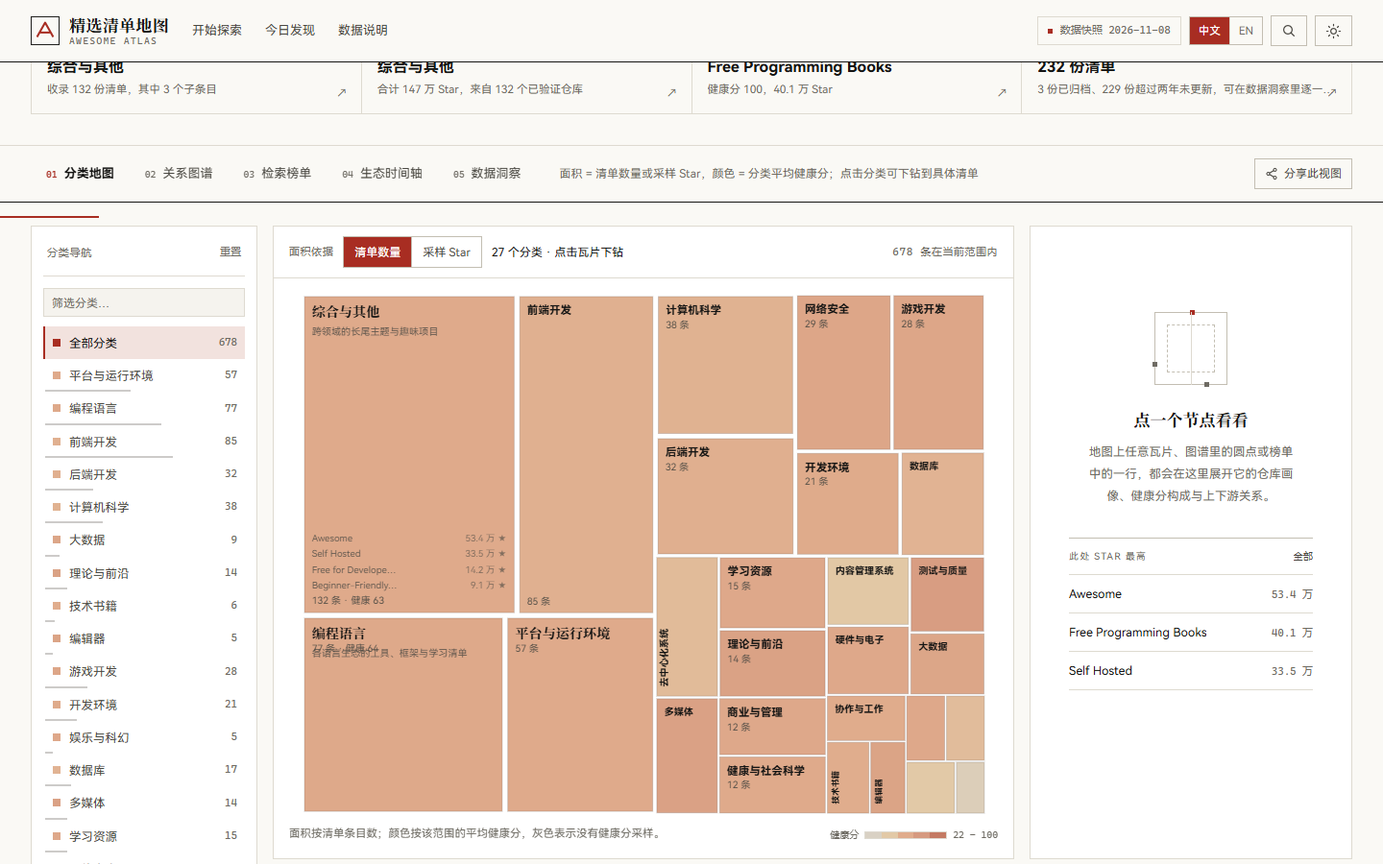
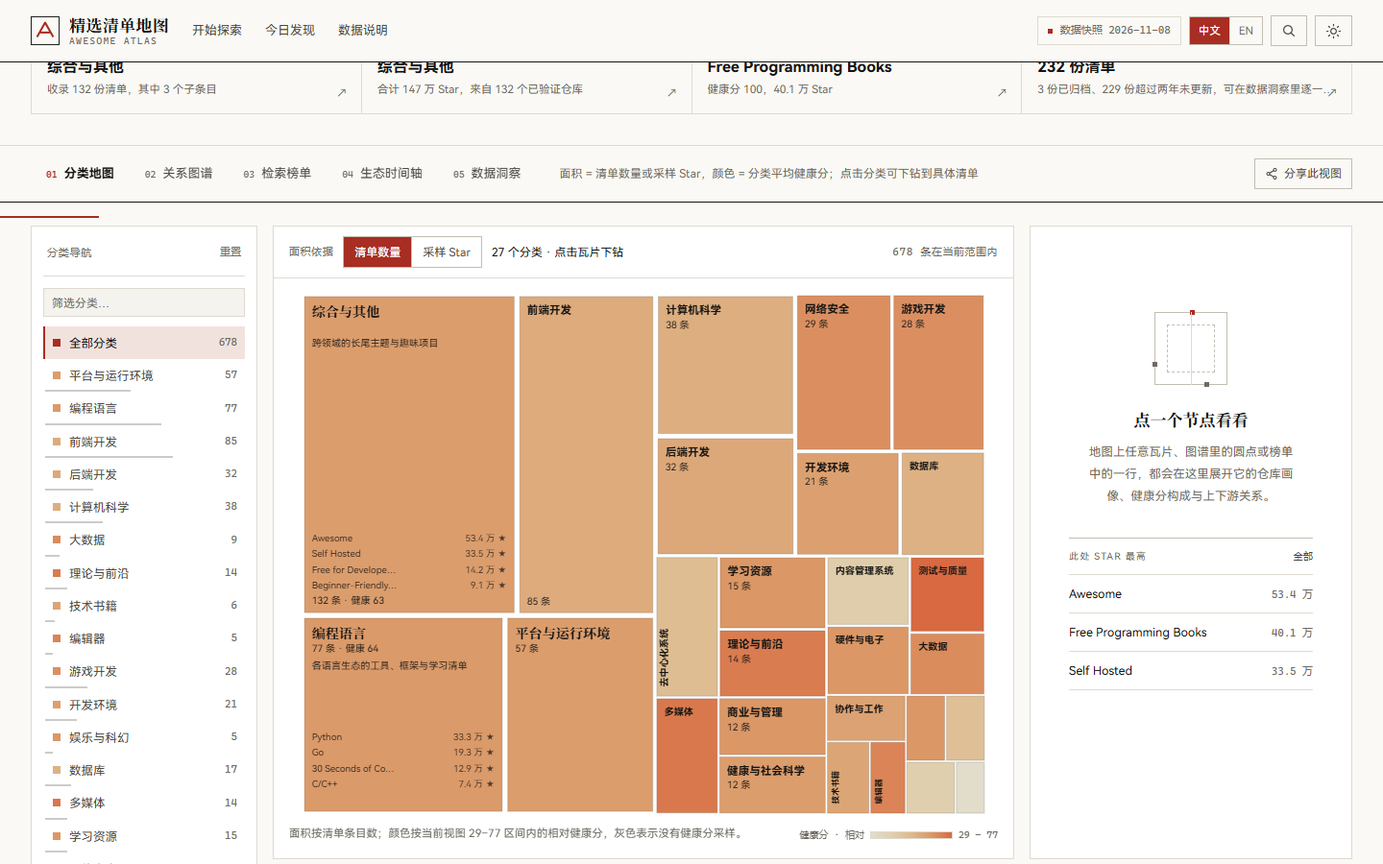
Deploy Awesome Atlas · 48 files · 2026-11-09

Changed region(s): [[0.2188, 0.3422, 0.7188, 0.9956], [0.5938, 0.9644, 0.625, 0.9956]]

diff --git a/assets/app.js b/assets/app.js
@@ -40,15 +40,15 @@
   };
   const safeUrl = (u) => (/^https?:\/\//.test(u || '') ? esc(u) : '#');
   /* Sequential health scale.
-     The domain is the OBSERVED range across verified repos, not 0–100: real
-     category averages sit between ~29 and ~77, so a fixed 0–100 domain collapsed
-     every tile into one muddy shade. The ramp holds lightness inside the band
-     where ink text still clears 4.5:1, and spends its range on hue and saturation
-     instead — stone → sand → apricot → clay → terracotta. Dark mode inverts the
-     luminance direction so a filled tile never glares on a near-black page.
-     Every tile also prints its numeric score, so colour is never the only cue. */
-  const RAMP_LIGHT = [[217, 209, 196], [226, 201, 166], [224, 172, 140], [214, 154, 128], [196, 122, 99]];
-  const RAMP_DARK = [[36, 31, 27], [58, 47, 36], [86, 57, 42], [122, 70, 50], [160, 90, 65]];
+     The ramp holds lightness inside the band where ink text still clears 4.5:1
+     (measured: 5.3 – 13.5 on light, 4.9 – 12.3 on dark) and spends its range on hue
+     and saturation instead — warm paper → sand → apricot → clay → terracotta.
+     The previous ramp stayed inside one material (ΔE 8 across its whole length),
+     so every tile read as the same salmon no matter the value. Dark mode lifts
+     toward the accent rather than the surface, for the same reason.
+     Every tile prints its numeric score, so colour is never the only cue. */
+  const RAMP_LIGHT = [[226, 220, 202], [224, 207, 174], [222, 185, 140], [219, 151, 102], [216, 105, 65]];
+  const RAMP_DARK = [[52, 43, 35], [69, 53, 39], [112, 69, 41], [149, 78, 40], [174, 75, 36]];
   let _domain = null;
   function healthDomain() {
     if (!_domain) {
@@ -57,10 +57,30 @@
     }
     return _domain;
   }
+  /* Colour is scaled to the values a view actually draws. Category averages span
+     29–77 while individual repos span 22–100: one global domain left the two
+     deepest stops unused and flattened 27 tiles into a single wash. Trimming the
+     tails keeps one outlier from re-flattening the rest; every key prints the
+     domain it is drawn with, so the scale never lies about its range. */
+  function rampDomain(values) {
+    const vs = values.filter((v) => v != null).sort((a, b) => a - b);
+    if (!vs.length) return [0, 100];
+    const pick = (p) => vs[Math.max(0, Math.min(vs.length - 1, Math.round((vs.length - 1) * p)))];
+    /* Trimming only pays off on a big population. With 27 categories a 3% cut
+       throws away two real values, and the key would then quote a range that
+       does not contain every tile it paints. */
+    let lo = vs.length >= 40 ? pick(0.03) : vs[0];
+    let hi = vs.length >= 40 ? pick(0.97) : vs[vs.length - 1];
+    /* Amplifying a three-point spread to full ramp would turn noise into signal. */
+    if (hi - lo < 6) { const mid = (lo + hi) / 2; lo = mid - 3; hi = mid + 3; }
+    return [lo, hi];
+  }
+  let _catDomain = null;
+  const categoryDomain = () => (_catDomain || (_catDomain = rampDomain(DATA.categories.map((c) => avgHealth(c.id)))));
   const isDark = () => document.documentElement.dataset.theme === 'dark';
-  function healthRgb(h) {
+  function healthRgb(h, domain) {
     if (h == null) return [138, 134, 126];
-    const [lo, hi] = healthDomain();
+    const [lo, hi] = domain || healthDomain();
     const t = hi > lo ? (Math.max(lo, Math.min(hi, h)) - lo) / (hi - lo) : 0.5;
     const ramp = isDark() ? RAMP_DARK : RAMP_LIGHT;
     const pos = t * (ramp.length - 1);
@@ -68,13 +88,16 @@
     const k = pos - i;
     return ramp[i].map((v, j) => Math.round(v + (ramp[i + 1][j] - v) * k));
   }
-  const healthColor = (h) => `rgb(${healthRgb(h).join(',')})`;
+  const healthColor = (h, domain) => `rgb(${healthRgb(h, domain).join(',')})`;
   /* One source of truth for the legend swatches, so the key cannot drift away
-     from the ramp the map and the graph dots actually use. */
+     from the ramp the map and the graph dots actually use. The anchors are
+     placed at even steps and blended, because the fill interpolates rather than
+     snapping to five buckets -- a banded key would promise classes that do not
+     exist. */
   function rampGradient() {
     const ramp = isDark() ? RAMP_DARK : RAMP_LIGHT;
-    const step = 100 / ramp.length;
-    return 'linear-gradient(90deg,' + ramp.map((c, i) => `rgb(${c.join(',')}) ${(i * step).toFixed(1)}% ${((i + 1) * step).toFixed(1)}%`).join(',') + ')';
+    const step = 100 / (ramp.length - 1);
+    return 'linear-gradient(90deg,' + ramp.map((c, i) => `rgb(${c.join(',')}) ${(i * step).toFixed(1)}%`).join(',') + ')';
   }
   const scoreColor = (h) => h == null ? 'var(--ink-3)' : h >= 70 ? 'var(--accent)' : h >= 45 ? 'var(--ink-2)' : 'var(--ink-3)';
   const tipAttr = (name, lines) => esc(name) + '||' + esc(lines.filter(Boolean).join(' · '));
@@ -119,7 +142,7 @@
       favAdded: '已加入收藏', favRemoved: '已取消收藏', langZh: '已切换为中文', langEn: '已切换为英文原文',
       dataLoaded: '数据快照', legendNote: '健康分只对已验证仓库计算；未命中或已失效的条目始终标注「未采集」，不按 0 分处理。',
       countSuffix: '条', matchedPrefix: '匹配', totalPrefix: '共', inScope: '条在当前范围内',
-      plateKicker: '图 01 · 分类地图', plateFoot: '点按进入地图', mapScale: '健康分',
+      plateKicker: '图 01 · 分类地图', plateFoot: '点按进入地图', mapScale: '健康分 · 相对',
     },
     en: {
       brandName: 'Awesome Atlas', brandSub: 'CURATED INDEX',
@@ -159,7 +182,7 @@
       favAdded: 'Added to favorites', favRemoved: 'Removed from favorites', langZh: 'Switched to Chinese', langEn: 'Switched to English',
       dataLoaded: 'Snapshot', legendNote: 'Health is computed only for verified repositories. Missing entries are labelled, never treated as zero.',
       countSuffix: '', matchedPrefix: 'matched', totalPrefix: 'total', inScope: 'in current scope',
-      plateKicker: 'Plate 01 · Map', plateFoot: 'Open the map', mapScale: 'health',
+      plateKicker: 'Plate 01 · Map', plateFoot: 'Open the map', mapScale: 'health · relative',
     },
   };
   const LANG_KEY = 'atlas-lang';
@@ -385,11 +408,12 @@
         ? `${DATA.categories.length} categories · ${DATA.stats.items} lists`
         : `${DATA.categories.length} 类 · ${DATA.stats.items} 条`;
     }
-    /* Print the real observed domain: a 0–100 legend would misrepresent a scale
-       that is stretched over the actual data range. */
-    const [hLo, hHi] = healthDomain();
-    if ($('#legendLow')) $('#legendLow').textContent = `${hLo} · ${isEn() ? 'stale' : '停滞'}`;
-    if ($('#legendHigh')) $('#legendHigh').textContent = `${hHi} · ${isEn() ? 'active' : '活跃'}`;
+    /* The sidebar key is a category scale: it sits next to the 27 category
+       swatches, so it must show the range those swatches are drawn over. The
+       map carries its own key for the population it is currently drawing. */
+    const [cLo, cHi] = categoryDomain();
+    if ($('#legendLow')) $('#legendLow').textContent = `${Math.round(cLo)} · ${isEn() ? 'weaker' : '偏弱'}`;
+    if ($('#legendHigh')) $('#legendHigh').textContent = `${Math.round(cHi)} · ${isEn() ? 'stronger' : '偏强'}`;
     document.title = isEn() ? 'Awesome Atlas · A Visual Index of Curated Lists' : '精选清单地图 · Awesome 中文可视化索引';
   }
 
@@ -462,7 +486,7 @@
     const allRow = `<button class="cat-row ${state.cat === 'all' ? 'is-on' : ''}" type="button" data-cat="all"><span class="cat-swatch" style="background:var(--accent)"></span><span class="cat-name">${esc(ui('allCategories'))}</span><span class="cat-count">${DATA.stats.items}</span></button>`;
     $('#categoryList').innerHTML = allRow + rows.map((c) => {
       const h = avgHealth(c.id);
-      return `<button class="cat-row ${state.cat === c.id ? 'is-on' : ''}" type="button" data-cat="${esc(c.id)}" data-tip="${tipAttr(catName(c), [catNote(c), c.itemCount + ' ' + ui('countSuffix'), h == null ? ui('noSample') : (isEn() ? 'avg health ' : '平均健康分 ') + h])}"><span class="cat-swatch" style="background:${healthColor(h)}"></span><span class="cat-name">${catLabel(c)}</span><span class="cat-count">${c.itemCount}</span><span class="cat-bar" style="width:${Math.round((c.itemCount / max) * 100)}%"></span></button>`;
+      return `<button class="cat-row ${state.cat === c.id ? 'is-on' : ''}" type="button" data-cat="${esc(c.id)}" data-tip="${tipAttr(catName(c), [catNote(c), c.itemCount + ' ' + ui('countSuffix'), h == null ? ui('noSample') : (isEn() ? 'avg health ' : '平均健康分 ') + h])}"><span class="cat-swatch" style="background:${healthColor(h, categoryDomain())}"></span><span class="cat-name">${catLabel(c)}</span><span class="cat-count">${c.itemCount}</span><span class="cat-bar" style="width:${Math.round((c.itemCount / max) * 100)}%"></span></button>`;
     }).join('');
     $('#enrichedOnly').checked = state.enrichedOnly;
     $('#favoritesOnly').checked = state.favoritesOnly;
@@ -579,7 +603,6 @@
            block carries data instead of emptiness. */
         top: enrichedOf(c.id).slice().sort((a, b) => b.metrics.stars - a.metrics.stars).slice(0, 4).map((it) => ({ name: it.name, stars: it.metrics.stars })),
         value: state.metric === 'stars' ? Math.log10(totalStarsOf(c.id) + 10) : c.itemCount,
-        color: healthColor(avgHealth(c.id)),
         health: avgHealth(c.id),
         /* Any active filter has to be visible on the canvas. This used to be
            gated on `state.q`, so choosing a category in the sidebar or turning on
@@ -596,7 +619,6 @@
         subShort: it.metrics ? fmtAbbr(it.metrics.stars, isEn()) + ' ★' : ui('noSample'),
         note: '',
         value: state.metric === 'stars' ? Math.log10((it.metrics ? it.metrics.stars : 0) + 10) : 1,
-        color: healthColor(it.metrics ? it.metrics.health : null),
         health: it.metrics ? it.metrics.health : null,
         dim: !matched.has(it.id),
         tip: tipAttr(it.name, [catName(catById.get(cid)), it.level ? ui('subEntry') : ui('mainEntry'), it.metrics ? '★ ' + fmtAbbr(it.metrics.stars, isEn()) + ' · ' + (isEn() ? 'health ' : '健康 ') + it.metrics.health : ui('noSample')]),
@@ -604,6 +626,9 @@
       }));
     }
     entries.sort((a, b) => b.value - a.value);
+    /* One domain per render, taken from the tiles on screen. */
+    const dom = rampDomain(entries.map((e) => e.health));
+    entries.forEach((e) => { e.color = healthColor(e.health, dom); });
     const tiles = treemap(entries, 0, 0, W, H);
     const dimmed = tiles.filter((t) => t.dim).length;
     const rects = tiles.map((t) => {
@@ -640,15 +665,20 @@
       const noteLines = !vertical && t.note && w > 200 && h > 150
         ? wrapCJK(t.note, Math.max(6, Math.floor((w - 20) / 11)), 2)
         : [];
-      const noteEl = noteLines.map((line, i) => `<text class="tile-note" x="${(x + 8).toFixed(1)}" y="${(nameY + 20 + i * 15).toFixed(1)}" font-size="10.5" fill-opacity=".82">${esc(line)}</text>`).join('');
-      /* Only the biggest category tiles get the inset; on anything smaller the
-         four rows would collide with the name. Anchored to the bottom edge so the
-         block frames the tile instead of floating in its middle. */
-      const insetRows = !vertical && t.top && w > 220 && h > 240 ? t.top : [];
+      /* The count line owns the slot directly under the name, so the note block
+         starts below that slot. Starting it at nameY+20 printed the description
+         on top of 「77 条 · 健康 64」. */
+      const noteEl = noteLines.map((line, i) => `<text class="tile-note" x="${(x + 8).toFixed(1)}" y="${(nameY + 33 + i * 15).toFixed(1)}" font-size="10.5" fill-opacity=".85">${esc(line)}</text>`).join('');
+      /* Only tiles with room get the inset; below this the four rows would
+         collide with the note. Anchored to the bottom edge so the block frames
+         the tile instead of floating in its middle. 220×240 was so strict that
+         the second-largest tile sat half empty while the biggest one carried a
+         list. */
+      const insetRows = !vertical && t.top && w > 176 && h > 158 ? t.top : [];
       const insetEl = insetRows.map((it, i) => {
         const rowY = y + h - 26 - (insetRows.length - 1 - i) * 17;
         return `<text class="tile-sub" x="${(x + 8).toFixed(1)}" y="${rowY.toFixed(1)}" font-size="10" fill-opacity=".8">${esc(clipLabel(it.name, w * 0.58, 10))}</text>` +
-          `<text class="tile-sub" x="${(x + w - 8).toFixed(1)}" y="${rowY.toFixed(1)}" font-size="10" text-anchor="end" fill-opacity=".62">${esc(fmtAbbr(it.stars, isEn()))} ★</text>`;
+          `<text class="tile-sub" x="${(x + w - 8).toFixed(1)}" y="${rowY.toFixed(1)}" font-size="10" text-anchor="end" fill-opacity=".72">${esc(fmtAbbr(it.stars, isEn()))} ★</text>`;
       }).join('');
       return `<g class="tile ${t.dim ? 'is-dim' : ''} ${selected ? 'is-selected' : ''}" data-action="${t.action}" data-id="${esc(t.id)}" data-tip="${t.tip}" tabindex="0" role="button" aria-label="${esc(t.label)}">
         <rect class="tile-bg" x="${x1}" y="${y1}" width="${w1}" height="${h1}" fill="${t.color}" stroke="var(--ink)" stroke-opacity=".16" stroke-width="1"/>
@@ -661,14 +691,16 @@
     main.innerHTML = `<svg class="treemap-svg" viewBox="0 0 ${W} ${H}" role="img" aria-label="${isEn() ? 'Treemap of categories and lists' : '分类与清单的树状地图'}">${rects}</svg>`;
     $('#canvasFoot').innerHTML = `<p class="canvas-note">${state.metric === 'stars'
       ? (isEn() ? 'Area uses a log scale of sampled stars so a few mega-repos do not swallow the map.' : '面积按采样 Star 的对数缩放，避免个别超级项目吞掉整张图。')
-      : (isEn() ? 'Area = number of lists; colour = average health; grey = no sampled metrics.' : '面积按清单条目数；颜色按该范围的平均健康分，灰色表示没有健康分采样。')}${dimmed
+      : (isEn() ? `Area = number of lists; colour = health relative to the ${dom[0]}–${dom[1]} on screen; grey = no sampled metrics.` : `面积按清单条目数；颜色按当前视图 ${dom[0]}–${dom[1]} 区间内的相对健康分，灰色表示没有健康分采样。`)}${dimmed
       ? (isEn() ? ` ${dimmed} tiles outside the current filter are dimmed.` : ` 当前筛选外的 ${dimmed} 个瓦片已淡化。`)
-      : ''}</p>${scaleHtml()}`;
+      : ''}</p>${scaleHtml(dom)}`;
   }
-  /* The same key serves the map and the graph, both of which colour by health. */
-  function scaleHtml() {
-    const [lo, hi] = healthDomain();
-    return `<div class="map-scale"><span>${ui('mapScale')}</span><span class="map-scale-track" style="background:${rampGradient()}"></span><span class="map-scale-cap">${lo} – ${hi}</span></div>`;
+  /* The same key serves the map and the graph, both of which colour by health.
+     The domain is passed in rather than assumed, so the caption always matches
+     the values that were actually painted. */
+  function scaleHtml(domain) {
+    const [lo, hi] = domain || healthDomain();
+    return `<div class="map-scale"><span>${ui('mapScale')}</span><span class="map-scale-track" style="background:${rampGradient()}"></span><span class="map-scale-cap">${Math.round(lo)} – ${Math.round(hi)}</span></div>`;
   }
 
   /* ---------- hero plate ---------- */
@@ -684,6 +716,7 @@
       .map((c) => ({ key: c.id, label: catName(c), value: c.itemCount, health: avgHealth(c.id), count: c.itemCount }))
       .sort((a, b) => b.value - a.value);
     const focus = state.cat !== 'all' ? state.cat : null;
+    const plateDomain = categoryDomain();
     const cells = treemap(entries, 0, 0, W, H).map((t) => {
       const gap = 2;
       const x = t.x + gap, y = t.y + gap, w = Math.max(0, t.w - gap * 2), h = Math.max(0, t.h - gap * 2);
@@ -691,7 +724,7 @@
       const fs = w > 126 ? 11 : w > 78 ? 9.5 : 8;
       const showName = w > 60 && h > 26;
       return `<g class="plate-tile ${focus === t.key ? 'is-focus' : ''}"><title>${esc(t.label)} · ${t.count} ${isEn() ? 'lists' : '条'}</title>
-        <rect x="${x.toFixed(1)}" y="${y.toFixed(1)}" width="${w.toFixed(1)}" height="${h.toFixed(1)}" fill="${healthColor(t.health)}" stroke="var(--surface)" stroke-width="1.2"/>
+        <rect x="${x.toFixed(1)}" y="${y.toFixed(1)}" width="${w.toFixed(1)}" height="${h.toFixed(1)}" fill="${healthColor(t.health, plateDomain)}" stroke="var(--surface)" stroke-width="1.2"/>
         ${showName ? `<text x="${(x + 5).toFixed(1)}" y="${(y + fs + 5).toFixed(1)}" font-size="${fs}">${esc(clipLabel(t.label, w, fs))}</text>` : ''}
       </g>`;
     }).join('');

diff --git a/docs/banner.html b/docs/banner.html
@@ -41,8 +41,8 @@
   </div>
   <div class="plate">
     <div class="plate-head"><b>图 01 · 分类地图</b><span>27 类 · 678 条</span></div>
-    <svg viewBox="0 0 470 470" width="100%" role="img" aria-label="分类树状地图"><rect x="2.4" y="2.4" width="238.5" height="172.0" fill="rgb(223,170,139)" stroke="#faf9f5" stroke-width="1.2"/><text x="8.4" y="21.4" font-size="13" font-family="PingFang SC, Microsoft YaHei, sans-serif" font-weight="600" fill="#141413">综合与其他</text><rect x="2.4" y="179.2" width="238.5" height="109.0" fill="rgb(224,176,144)" stroke="#faf9f5" stroke-width="1.2"/><text x="8.4" y="198.2" font-size="13" font-family="PingFang SC, Microsoft YaHei, sans-serif" font-weight="600" fill="#141413">前端开发</text><rect x="2.4" y="293.0" width="135.0" height="174.6" fill="rgb(222,169,138)" stroke="#faf9f5" stroke-width="1.2"/><text x="8.4" y="310.5" font-size="11.5" font-family="PingFang SC, Microsoft YaHei, sans-serif" font-weight="600" fill="#141413">编程语言</text><rect x="142.2" y="293.0" width="98.7" height="174.6" fill="rgb(223,170,139)" stroke="#faf9f5" stroke-width="1.2"/><text x="148.2" y="310.5" font-size="11.5" font-family="PingFang SC, Microsoft YaHei, sans-serif" font-weight="600" fill="#141413">平台与运行环境</text><rect x="245.7" y="2.4" width="118.3" height="95.8" fill="rgb(224,178,145)" stroke="#faf9f5" stroke-width="1.2"/><text x="251.7" y="19.9" font-size="11.5" font-family="PingFang SC, Microsoft YaHei, sans-serif" font-weight="600" fill="#141413">计算机科学</text><rect x="368.8" y="2.4" width="98.8" height="95.8" fill="rgb(224,175,143)" stroke="#faf9f5" stroke-width="1.2"/><text x="374.8" y="19.9" font-size="11.5" font-family="PingFang SC, Microsoft YaHei, sans-serif" font-weight="600" fill="#141413">后端开发</text><rect x="245.7" y="103.0" width="131.2" height="64.7" fill="rgb(221,166,136)" stroke="#faf9f5" stroke-width="1.2"/><text x="251.7" y="120.5" font-size="11.5" font-family="PingFang SC, Microsoft YaHei, sans-serif" font-weight="600" fill="#141413">网络安全</text><rect x="245.7" y="172.5" width="131.2" height="62.3" fill="rgb(221,166,136)" stroke="#faf9f5" stroke-width="1.2"/><text x="251.7" y="190.0" font-size="11.5" font-family="PingFang SC, Microsoft YaHei, sans-serif" font-weight="600" fill="#141413">游戏开发</text><rect x="381.7" y="103.0" width="85.9" height="70.7" fill="rgb(223,171,139)" stroke="#faf9f5" stroke-width="1.2"/><text x="387.7" y="119.0" font-size="10" font-family="PingFang SC, Microsoft YaHei, sans-serif" font-weight="600" fill="#141413">开发环境</text><rect x="381.7" y="178.5" width="85.9" height="56.3" fill="rgb(225,179,147)" stroke="#faf9f5" stroke-width="1.2"/><text x="387.7" y="194.5" font-size="10" font-family="PingFang SC, Microsoft YaHei, sans-serif" font-weight="600" fill="#141413">数据库</text><rect x="245.7" y="239.6" width="41.1" height="115.9" fill="rgb(225,187,153)" stroke="#faf9f5" stroke-width="1.2"/><rect x="291.6" y="239.6" width="73.5" height="57.6" fill="rgb(222,168,138)" stroke="#faf9f5" stroke-width="1.2"/><text x="297.6" y="255.6" font-size="10" font-family="PingFang SC, Microsoft YaHei, sans-serif" font-weight="600" fill="#141413">学习资源</text><rect x="291.6" y="302.0" width="73.5" height="53.5" fill="rgb(218,162,133)" stroke="#faf9f5" stroke-width="1.2"/><text x="297.6" y="318.0" font-size="10" font-family="PingFang SC, Microsoft YaHei, sans-serif" font-weight="600" fill="#141413">理论与前沿</text><rect x="369.9" y="239.6" width="97.7" height="39.7" fill="rgb(218,161,133)" stroke="#faf9f5" stroke-width="1.2"/><text x="375.9" y="257.1" font-size="11.5" font-family="PingFang SC, Microsoft YaHei, sans-serif" font-weight="600" fill="#141413">多媒体</text><rect x="369.9" y="284.0" width="46.5" height="71.5" fill="rgb(222,168,138)" stroke="#faf9f5" stroke-width="1.2"/><rect x="421.1" y="284.0" width="46.5" height="71.5" fill="rgb(223,170,139)" stroke="#faf9f5" stroke-width="1.2"/><rect x="245.7" y="360.3" width="59.1" height="51.3" fill="rgb(226,200,165)" stroke="#faf9f5" stroke-width="1.2"/><rect x="245.7" y="416.3" width="59.1" height="51.3" fill="rgb(222,168,138)" stroke="#faf9f5" stroke-width="1.2"/><rect x="309.7" y="360.3" width="53.3" height="56.9" fill="rgb(216,157,130)" stroke="#faf9f5" stroke-width="1.2"/><rect x="309.7" y="422.0" width="53.3" height="45.6" fill="rgb(220,166,136)" stroke="#faf9f5" stroke-width="1.2"/><rect x="367.8" y="360.3" width="35.9" height="51.3" fill="rgb(224,172,140)" stroke="#faf9f5" stroke-width="1.2"/><rect x="408.5" y="360.3" width="30.1" height="51.3" fill="rgb(224,173,141)" stroke="#faf9f5" stroke-width="1.2"/><rect x="443.3" y="360.3" width="24.3" height="51.3" fill="rgb(219,164,134)" stroke="#faf9f5" stroke-width="1.2"/><rect x="367.8" y="416.3" width="24.3" height="51.3" fill="rgb(222,168,138)" stroke="#faf9f5" stroke-width="1.2"/><rect x="396.8" y="416.3" width="24.3" height="51.3" fill="rgb(225,188,155)" stroke="#faf9f5" stroke-width="1.2"/><rect x="425.9" y="416.3" width="41.7" height="30.2" fill="rgb(226,201,167)" stroke="#faf9f5" stroke-width="1.2"/><rect x="425.9" y="451.4" width="41.7" height="16.2" fill="rgb(220,206,185)" stroke="#faf9f5" stroke-width="1.2"/></svg>
+    <svg viewBox="0 0 470 470" width="100%" role="img" aria-label="分类树状地图"><rect x="2.4" y="2.4" width="238.5" height="172.0" fill="rgb(220,157,108)" stroke="#faf9f5" stroke-width="1.2"/><text x="8.4" y="21.4" font-size="13" font-family="PingFang SC, Microsoft YaHei, sans-serif" font-weight="600" fill="#141413">综合与其他</text><rect x="2.4" y="179.2" width="238.5" height="109.0" fill="rgb(221,171,124)" stroke="#faf9f5" stroke-width="1.2"/><text x="8.4" y="198.2" font-size="13" font-family="PingFang SC, Microsoft YaHei, sans-serif" font-weight="600" fill="#141413">前端开发</text><rect x="2.4" y="293.0" width="135.0" height="174.6" fill="rgb(219,154,105)" stroke="#faf9f5" stroke-width="1.2"/><text x="8.4" y="310.5" font-size="11.5" font-family="PingFang SC, Microsoft YaHei, sans-serif" font-weight="600" fill="#141413">编程语言</text><rect x="142.2" y="293.0" width="98.7" height="174.6" fill="rgb(220,157,108)" stroke="#faf9f5" stroke-width="1.2"/><text x="148.2" y="310.5" font-size="11.5" font-family="PingFang SC, Microsoft YaHei, sans-serif" font-weight="600" fill="#141413">平台与运行环境</text><rect x="245.7" y="2.4" width="118.3" height="95.8" fill="rgb(221,174,127)" stroke="#faf9f5" stroke-width="1.2"/><text x="251.7" y="19.9" font-size="11.5" font-family="PingFang SC, Microsoft YaHei, sans-serif" font-weight="600" fill="#141413">计算机科学</text><rect x="368.8" y="2.4" width="98.8" height="95.8" fill="rgb(220,168,121)" stroke="#faf9f5" stroke-width="1.2"/><text x="374.8" y="19.9" font-size="11.5" font-family="PingFang SC, Microsoft YaHei, sans-serif" font-weight="600" fill="#141413">后端开发</text><rect x="245.7" y="103.0" width="131.2" height="64.7" fill="rgb(218,143,96)" stroke="#faf9f5" stroke-width="1.2"/><text x="251.7" y="120.5" font-size="11.5" font-family="PingFang SC, Microsoft YaHei, sans-serif" font-weight="600" fill="#141413">网络安全</text><rect x="245.7" y="172.5" width="131.2" height="62.3" fill="rgb(218,143,96)" stroke="#faf9f5" stroke-width="1.2"/><text x="251.7" y="190.0" font-size="11.5" font-family="PingFang SC, Microsoft YaHei, sans-serif" font-weight="600" fill="#141413">游戏开发</text><rect x="381.7" y="103.0" width="85.9" height="70.7" fill="rgb(220,160,112)" stroke="#faf9f5" stroke-width="1.2"/><text x="387.7" y="119.0" font-size="10" font-family="PingFang SC, Microsoft YaHei, sans-serif" font-weight="600" fill="#141413">开发环境</text><rect x="381.7" y="178.5" width="85.9" height="56.3" fill="rgb(221,176,130)" stroke="#faf9f5" stroke-width="1.2"/><text x="387.7" y="194.5" font-size="10" font-family="PingFang SC, Microsoft YaHei, sans-serif" font-weight="600" fill="#141413">数据库</text><rect x="245.7" y="239.6" width="41.1" height="115.9" fill="rgb(222,189,146)" stroke="#faf9f5" stroke-width="1.2"/><rect x="291.6" y="239.6" width="73.5" height="57.6" fill="rgb(219,151,102)" stroke="#faf9f5" stroke-width="1.2"/><text x="297.6" y="255.6" font-size="10" font-family="PingFang SC, Microsoft YaHei, sans-serif" font-weight="600" fill="#141413">学习资源</text><rect x="291.6" y="302.0" width="73.5" height="53.5" fill="rgb(217,124,80)" stroke="#faf9f5" stroke-width="1.2"/><text x="297.6" y="318.0" font-size="10" font-family="PingFang SC, Microsoft YaHei, sans-serif" font-weight="600" fill="#141413">理论与前沿</text><rect x="369.9" y="239.6" width="97.7" height="39.7" fill="rgb(217,120,77)" stroke="#faf9f5" stroke-width="1.2"/><text x="375.9" y="257.1" font-size="11.5" font-family="PingFang SC, Microsoft YaHei, sans-serif" font-weight="600" fill="#141413">多媒体</text><rect x="369.9" y="284.0" width="46.5" height="71.5" fill="rgb(219,151,102)" stroke="#faf9f5" stroke-width="1.2"/><rect x="421.1" y="284.0" width="46.5" height="71.5" fill="rgb(220,157,108)" stroke="#faf9f5" stroke-width="1.2"/><rect x="245.7" y="360.3" width="59.1" height="51.3" fill="rgb(224,205,171)" stroke="#faf9f5" stroke-width="1.2"/><rect x="245.7" y="416.3" width="59.1" height="51.3" fill="rgb(219,151,102)" stroke="#faf9f5" stroke-width="1.2"/><rect x="309.7" y="360.3" width="53.3" height="56.9" fill="rgb(216,105,65)" stroke="#faf9f5" stroke-width="1.2"/><rect x="309.7" y="422.0" width="53.3" height="45.6" fill="rgb(218,140,93)" stroke="#faf9f5" stroke-width="1.2"/><rect x="367.8" y="360.3" width="35.9" height="51.3" fill="rgb(220,162,115)" stroke="#faf9f5" stroke-width="1.2"/><rect x="408.5" y="360.3" width="30.1" height="51.3" fill="rgb(220,165,118)" stroke="#faf9f5" stroke-width="1.2"/><rect x="443.3" y="360.3" width="24.3" height="51.3" fill="rgb(218,132,87)" stroke="#faf9f5" stroke-width="1.2"/><rect x="367.8" y="416.3" width="24.3" height="51.3" fill="rgb(219,151,102)" stroke="#faf9f5" stroke-width="1.2"/><rect x="396.8" y="416.3" width="24.3" height="51.3" fill="rgb(222,190,148)" stroke="#faf9f5" stroke-width="1.2"/><rect x="425.9" y="416.3" width="41.7" height="30.2" fill="rgb(224,207,174)" stroke="#faf9f5" stroke-width="1.2"/><rect x="425.9" y="451.4" width="41.7" height="16.2" fill="rgb(226,220,202)" stroke="#faf9f5" stroke-width="1.2"/></svg>
     <div class="plate-foot"><span>面积 = 清单数 · 颜色 = 平均健康分</span><span>→</span></div>
   </div>
-  <div class="url"><b>odin1024.github.io/awesome-atlas</b> &nbsp;·&nbsp; 数据快照 2026-11-08 · 健康分 22–100</div>
+  <div class="url"><b>odin1024.github.io/awesome-atlas</b> &nbsp;·&nbsp; 数据快照 2026-11-08 · 健康分 29–77</div>
 </body></html>

diff --git a/assets/styles.css b/assets/styles.css
@@ -345,7 +345,10 @@ h1 {
 .tile.is-dim { opacity: .26; }
 .tile-label { pointer-events: none; font-weight: 600; fill: var(--ink); }
 .tile-label.is-serif { font-family: var(--font-serif); font-weight: 700; letter-spacing: .01em; }
-.tile-sub, .tile-note { pointer-events: none; fill: var(--ink-2); }
+.tile-sub, .tile-note { pointer-events: none; fill: var(--ink); }
+/* Tile fills now reach a deep terracotta, where --ink-2 drops to 2.6:1. The
+   labels on a data-coloured surface therefore use the full-strength ink and
+   separate by size and weight instead of by a lighter tint. */
 
 /* ---------- graph ---------- */
 .graph-svg { width: 100%; height: 100%; display: block; }

diff --git a/scripts/browser-check.py b/scripts/browser-check.py
@@ -35,6 +35,50 @@ with sync_playwright() as p:
     check('四张指标卡渲染', page.locator('.metric').count() == 4, page.locator('.metric').count())
     check('侧栏 28 行（全部 + 27 分类）', page.locator('.cat-row').count() == 28, page.locator('.cat-row').count())
     check('地图默认 27 个分类瓦片', page.locator('.tile').count() == 27, page.locator('.tile').count())
+    # The map once painted all 27 tiles in one salmon, because the ramp itself
+    # spanned ΔE 8 end to end. A palette can regress silently -- nothing errors,
+    # the chart just stops encoding anything -- so measure the spread instead.
+    spread = page.evaluate("""() => {
+      const fills = [...document.querySelectorAll('.tile rect')].map(r => r.getAttribute('fill'));
+      const rgb = fills.map(f => f.match(/\\d+/g).map(Number));
+      const lum = c => {
+        const f = v => { const x = v / 255; return x <= 0.04045 ? x / 12.92 : ((x + 0.055) / 1.055) ** 2.4; };
+        return 0.2126 * f(c[0]) + 0.7152 * f(c[1]) + 0.0722 * f(c[2]);
+      };
+      const sorted = [...rgb].sort((a, b) => lum(a) - lum(b));
+      const [a, b] = [sorted[0], sorted[sorted.length - 1]];
+      return { distinct: new Set(fills).size, delta: Math.round(Math.hypot(a[0] - b[0], a[1] - b[1], a[2] - b[2])) };
+    }""")
+    check('分类瓦片颜色真的分得开', spread['distinct'] >= 12 and spread['delta'] >= 120,
+          f"{spread['distinct']} 种颜色，最浅与最深相差 {spread['delta']}")
+    # The description block used to start 5px under the count line, so 「77 条 ·
+    # 健康 64」 printed through the category note. Compare the drawn baselines
+    # rather than trusting the layout to have stayed put.
+    collide = page.evaluate("""() => {
+      const bad = [];
+      document.querySelectorAll('.tile').forEach(g => {
+        const notes = [...g.querySelectorAll('.tile-note')].map(e => +e.getAttribute('y'));
+        const subs = [...g.querySelectorAll('.tile-sub')].map(e => +e.getAttribute('y'));
+        for (const n of notes) for (const s of subs) {
+          if (Math.abs(n - s) < 12) bad.push([g.getAttribute('aria-label'), Math.round(n - s)]);
+        }
+      });
+      return bad;
+    }""")
+    check('瓦片内释义与计数行不重叠', len(collide) == 0, collide[:3])
+    # Re-derive the expected domain from the page's own data instead of quoting a
+    # snapshot number: the key must cover exactly the values the tiles were drawn
+    # from, so a silent domain change shows up here as a mismatch.
+    dom = page.evaluate("""() => {
+      const D = window.__ATLAS_DATA__;
+      const avgs = D.categories.map(c => {
+        const a = D.items.filter(i => i.categoryId === c.id && i.metrics);
+        return a.length ? Math.round(a.reduce((s, i) => s + i.metrics.health, 0) / a.length) : null;
+      }).filter(v => v !== null);
+      return { cap: document.querySelector('.map-scale-cap').textContent.trim(),
+               expect: Math.min(...avgs) + ' – ' + Math.max(...avgs) };
+    }""")
+    check('图例区间等于当前视图的真实极值', dom['cap'] == dom['expect'], f"{dom['cap']} vs {dom['expect']}")
     # Narrow slivers rotate their label instead of truncating it to 「去中心…」.
     clipped = page.locator('.tile-label', has_text='…').all_inner_texts()
     check('瓦片标签无截断残词', len(clipped) == 0, clipped)

diff --git a/scripts/make-banner.py b/scripts/make-banner.py
@@ -19,12 +19,19 @@ items = catalog['items']
 
 # Same ramp as assets/app.js (RAMP_LIGHT) — a poster that invents its own colours
 # stops being a picture of the site.
-RAMP = [(217, 209, 196), (226, 201, 166), (224, 172, 140), (214, 154, 128), (196, 122, 99)]
+RAMP = [(226, 220, 202), (224, 207, 174), (222, 185, 140), (219, 151, 102), (216, 105, 65)]
 
 
 def health_domain():
-    hs = [it['metrics']['health'] for it in items if it.get('metrics')]
-    return min(hs), max(hs)
+    """The poster draws categories, so it is scaled over category averages, the
+    same population the site's category view uses. Scaling over individual repos
+    left the two deepest stops unused and flattened the panel."""
+    avgs = []
+    for c in catalog['categories']:
+        mine = [it['metrics']['health'] for it in items if it['categoryId'] == c['id'] and it.get('metrics')]
+        if mine:
+            avgs.append(round(sum(mine) / len(mine)))
+    return min(avgs), max(avgs)
 
 
 LO, HI = health_domain()

diff --git a/README.md b/README.md
@@ -32,7 +32,7 @@
 
 | 视图 | 回答的问题 | 编码方式 |
 | --- | --- | --- |
-| 01 分类地图 | 哪个领域最繁荣 | Treemap，面积 = 清单数或采样 Star（对数），颜色 = 平均健康分；侧栏选分类或点瓦片都直接聚焦到该分类的清单 |
+| 01 分类地图 | 哪个领域最繁荣 | Treemap，面积 = 清单数或采样 Star（对数），颜色 = 平均健康分（按当前视图内的区间相对着色，图例打印该区间）；侧栏选分类或点瓦片都直接聚焦到该分类的清单 |
 | 02 关系图谱 | 分类与清单如何组织 | 径向星系，中心为源索引、外圈 27 个分类；圆点大小 = Star，颜色 = 健康分 |
 | 03 检索榜单 | 找到某一份具体清单 | 678 条全文检索（中文 / 英文 / 仓库名 / topics）、7 种排序、分页、收藏、导出 |
 | 04 生态时间轴 | 这个索引在怎么变 | 24 个真实 README 历史版本的增删 diff、已验证仓库近 18 个月的 push 分布、仓库创建年份分布 |
@@ -98,8 +98,8 @@ npm run check:browser                    # 浏览器实机验证（先 validate 
 
 | 层 | 脚本 | 覆盖 | 结果 |
 | --- | --- | --- | --- |
-| 数据 | `scripts/validate.mjs` | 用独立方法重新统计原始 README，校验解析、URL 归一化、指标范围、i18n 覆盖、历史 diff、产物完整性、界面与设计约束 | **64 / 64** |
-| 浏览器 | `scripts/browser-check.py` | 真实 Chrome 无头浏览器**逐个点击每个控件**（顶栏锚点、首屏地图板、5 个视图、侧栏筛选与 3 个开关、面积依据、显示范围、排序、分页、行内收藏、详情 4 个按钮、时间轴榜单、洞察条形、命令面板、页脚 2 个按钮）、刷新回顶、语言两态、图谱标签几何碰撞、表格列溢出、画布图例与脚注可见、移动端 5 个标签、控制台异常 | **112 / 112**，控制台 0 异常 |
+| 数据 | `scripts/validate.mjs` | 用独立方法重新统计原始 README，校验解析、URL 归一化、指标范围、i18n 覆盖、历史 diff、产物完整性、界面与设计约束，以及色阶的 ΔE 落差与瓦片文字对比度 | **69 / 69** |
+| 浏览器 | `scripts/browser-check.py` | 真实 Chrome 无头浏览器**逐个点击每个控件**（顶栏锚点、首屏地图板、5 个视图、侧栏筛选与 3 个开关、面积依据、显示范围、排序、分页、行内收藏、详情 4 个按钮、时间轴榜单、洞察条形、命令面板、页脚 2 个按钮）、刷新回顶、语言两态、图谱标签几何碰撞、表格列溢出、画布图例与脚注可见、瓦片配色落差与图例区间、瓦片内文字行距、移动端 5 个标签、控制台异常 | **115 / 115**，控制台 0 异常 |
 | 线上 | 同上，`ATLAS_BASE=...` | 同一套断言直接打向已部署站点，避免「本地绿、线上坏」 | 部署后同套复核 |
 
 详细报告与桌面 / 移动端截图见 [`docs/VALIDATION.md`](docs/VALIDATION.md) 和 `docs/screenshots/`。

diff --git a/docs/VALIDATION.md b/docs/VALIDATION.md
@@ -1,7 +1,7 @@
 # 交叉验证报告
 
-- 验证时间：2026-11-09T04:54:28.952Z
-- 结果：**64 / 64 项通过**（全部通过）
+- 验证时间：2026-11-09T07:11:50.421Z
+- 结果：**69 / 69 项通过**（全部通过）
 - 数据源：`sindresorhus/awesome/readme.md`，866 行 / 78330 字节，sha256 `465cd781335e4458…`
 - 解析结果：27 个分类、678 条清单、673 个 GitHub 仓库
 - 指标覆盖：**673 / 673（100%）**，合计 5,979,356 star
@@ -102,6 +102,8 @@
 | README 引用的截图全部存在 | 通过 | 9 张，缺 0 |
 | 画布脚注有独立布局位，不再被裁剪 | 通过 | .canvas-fill / .canvas-main / .canvas-foot 三段式 |
 | 图例色阶由 RAMP 生成而非硬编码 | 通过 | 一处色阶，图例与瓦片同源 |
+| 地图色阶按当前视图的数值定标 | 通过 | rampDomain + healthColor(value, domain)，图例打印同一区间 |
+| 小样本不做百分位截尾 | 通过 | 27 个分类用真实极值，图例区间覆盖全部瓦片 |
 
 ## 设计
 
@@ -109,6 +111,9 @@
 | --- | --- | --- |
 | 浅色主题文字对比度 ≥ 4.5:1 | 通过 | 最低 5.05:1（三级 ink-3/paper） |
 | 深色主题文字对比度 ≥ 4.5:1 | 通过 | 最低 5.28:1（反白 accent-ink/accent） |
+| 数据色阶两端有真实落差 | 通过 | 浅色 ΔE 61 / 深色 ΔE 56（旧色阶仅 8） |
+| 最深瓦片上的文字仍过 4.5:1 | 通过 | 浅色最低 5.28:1 / 深色最低 4.85:1 |
+| 最浅瓦片不与页面底色糊在一起 | 通过 | 浅色 ΔE 82.0 / 深色 ΔE 13.8 |
 | 单一强调色相（浅/深色同一色相） | 通过 | 浅色 5° / 深色 7° |
 | 无渐变文字与玻璃拟态 | 通过 | 无 gradient text / backdrop-filter |
 | 圆角系统为 0（Swiss 网格） | 通过 | 仅进度条与开关保留功能性圆角 |
@@ -127,8 +132,8 @@
 
 ## 浏览器实机验证（Playwright + Chrome headless）
 
-结果：**112 / 112 项通过**；控制台异常 0 条。
-环境：`https://odin1024.github.io/awesome-atlas`（线上）
+结果：**115 / 115 项通过**；控制台异常 0 条。
+环境：`http://127.0.0.1:8765`（本地）
 
 | 检查项 | 结果 | 观察值 |
 | --- | --- | --- |
@@ -136,6 +141,9 @@
 | 四张指标卡渲染 | 通过 | 4 |
 | 侧栏 28 行（全部 + 27 分类） | 通过 | 28 |
 | 地图默认 27 个分类瓦片 | 通过 | 27 |
+| 分类瓦片颜色真的分得开 | 通过 | 21 种颜色，最浅与最深相差 179 |
+| 瓦片内释义与计数行不重叠 | 通过 | [] |
+| 图例区间等于当前视图的真实极值 | 通过 | 29 – 77 vs 29 – 77 |
 | 瓦片标签无截断残词 | 通过 | [] |
 | 窄瓦片改用竖排标签 | 通过 | 3 |
 | 默认无空状态 | 通过 | 0 |
